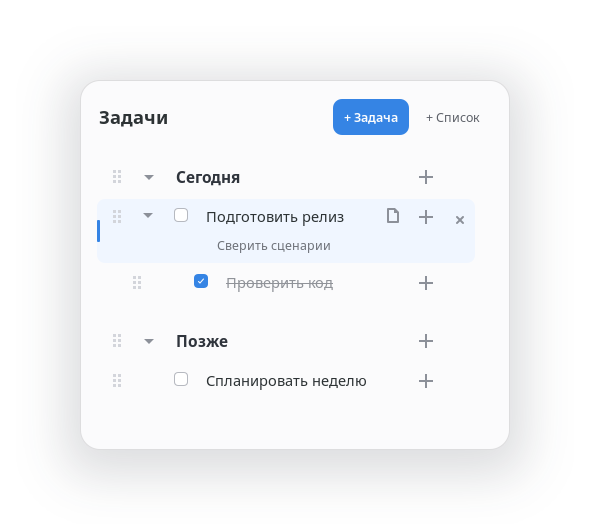
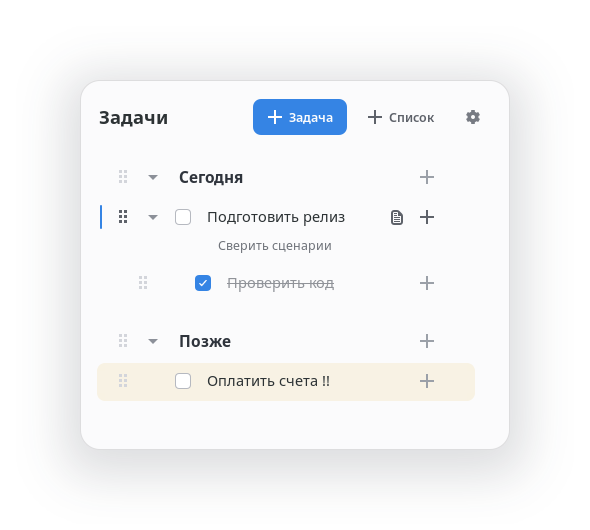
Обновлён скриншот виджета в ридми

diff --git a/tests/probe.js b/tests/probe.js
@@ -900,7 +900,7 @@ export async function run() {
             done: false, expanded: true},
         {type: 'task', level: 1, text: 'Проверить код', done: true},
         {type: 'heading', level: 0, text: 'Позже'},
-        {type: 'task', level: 0, text: 'Спланировать неделю', done: false},
+        {type: 'task', level: 0, text: 'Оплатить счета !!', done: false},
     ];
     runtime._renderItems();
     runtime._card.set_size(430, 370);
@@ -908,19 +908,29 @@ export async function run() {
     const screenshotFrame = new St.Widget({
         width: 590,
         height: 530,
+        layout_manager: new Clutter.FixedLayout(),
         style: 'background-color: #ffffff;',
     });
     screenshotFrame.set_position(20, 20);
     Main.layoutManager.addTopChrome(screenshotFrame);
     if (screenshotFrame.get_parent() !== runtime._card.get_parent())
         throw new Error('Screenshot frame and widget have different parents');
-    runtime._resizeHandle.set_position(900, 700);
+    const resizeHandleVisible = runtime._resizeHandle.visible;
+    runtime._resizeHandle.visible = false;
     runtime._card.get_parent().set_child_below_sibling(screenshotFrame, runtime._card);
-    runtime._card.set_position(100, 100);
     runtime._selectItem(1, true);
     await delay(250);
+    const cardParent = runtime._card.get_parent();
+    cardParent.remove_child(runtime._card);
+    screenshotFrame.add_child(runtime._card);
+    runtime._card.set_size(430, 370);
+    runtime._card.set_position(80, 80);
     await screenshot('readme-widget', screenshotFrame);
+    screenshotFrame.remove_child(runtime._card);
+    cardParent.add_child(runtime._card);
     screenshotFrame.destroy();
+    runtime._resizeHandle.visible = resizeHandleVisible;
+    runtime._positionCard();
     runtime._items = [
         {type: 'heading', level: 0, text: 'Сетка задач'},
         {type: 'task', level: 0, text: 'Родитель', done: false},
